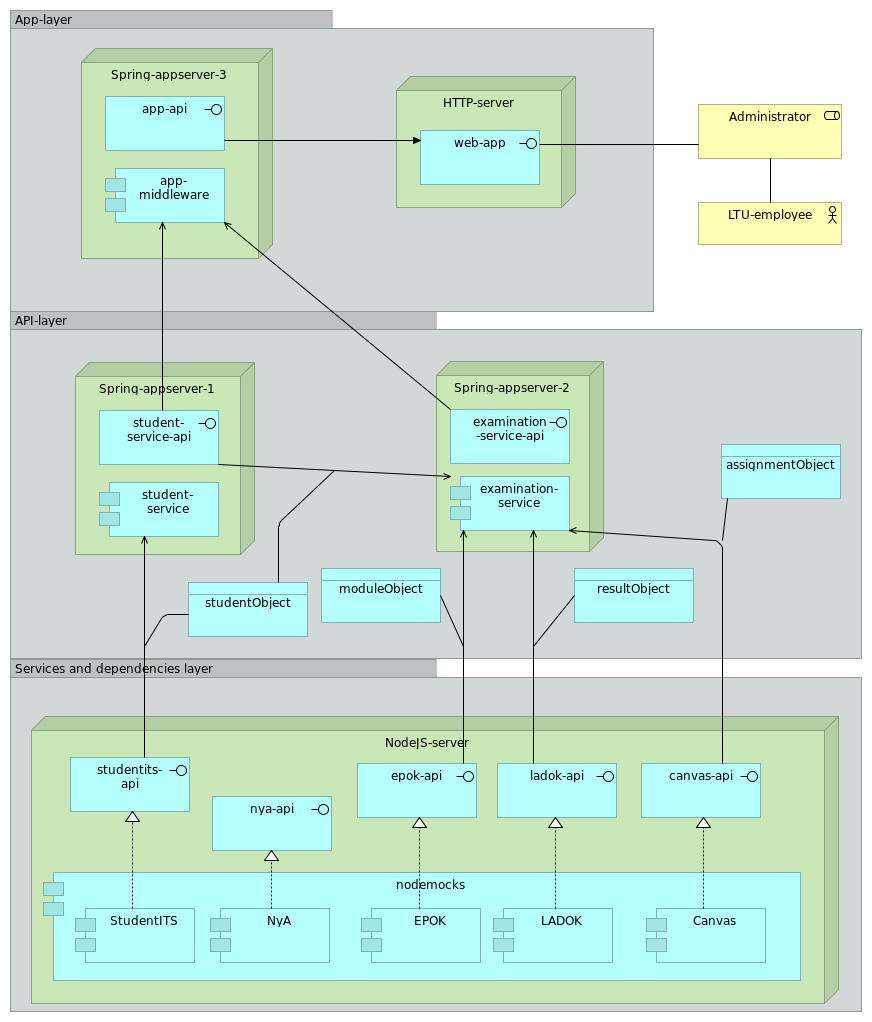
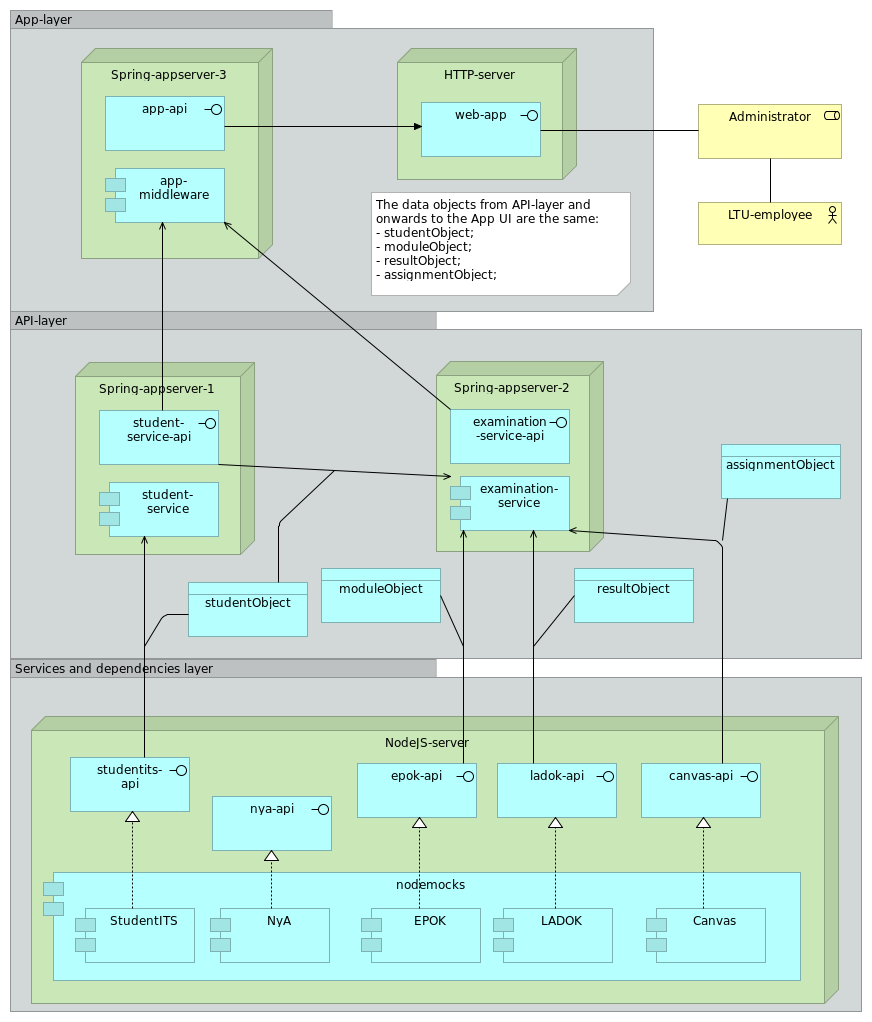
Small note to overview Arch model

Changed region(s): [[0.4025, 0.0303, 0.7431, 0.3033]]

diff --git a/docs/id-82908d6c2a3047ff9637ec8682247159/objects/id-894f5253f9684acfbfed39a0a87da02b.html b/docs/id-82908d6c2a3047ff9637ec8682247159/objects/id-894f5253f9684acfbfed39a0a87da02b.html
@@ -1,0 +1,72 @@
+<!DOCTYPE HTML PUBLIC "-//W3C//DTD HTML 4.01 Transitional//EN" "http://www.w3.org/TR/html4/loose.dtd">
+<html class="frame" lang="en">
+<head>
+	<meta http-equiv="Content-Type" content="text/html;charset=utf-8">
+	<title></title>
+
+	<!-- JQUERY (use 1.x branch to be compatible with IE 6/7/8) -->
+	<script type="text/javascript" src="../../lib/jquery/js/jquery-1.11.2.min.js"></script>
+	<!-- BOOTSTRAP -->
+	<link type="text/css" rel="stylesheet" href="../../lib/bootstrap/css/bootstrap-3.3.2.min.css">
+	<link type="text/css" rel="stylesheet" href="../../lib/bootstrap/css/bootstrap-theme-3.3.2.min.css">
+	<script type="text/javascript" src="../../lib/bootstrap/js/bootstrap-3.3.2.min.js"></script>
+	<!-- REPORT SPECIFIC -->
+	<link type="text/css" rel="stylesheet" href="../../css/model.css">
+	<link type="text/css" rel="stylesheet" href="../../css/i18n.css">
+	<script type="text/javascript" src="../../js/frame.js"></script>
+	<script type="text/javascript" src="../../js/imageMapResizer.min.js"></script>
+</head>
+
+<body>
+	<div class="panel panel-default root-panel">
+
+		<div class="panel-heading root-panel-heading">
+            <!-- Name -->
+               <b class="i18n-elementtype-DiagramModelNote"></b>
+            <!-- If a View with Viewpoint -->
+			   (<span class="i18n-elementtype-DiagramModelNote"></span>)
+			   <a class="glyphicon glyphicon-info-sign" id="hint-DiagramModelNote" target="hint"></a>
+		</div>
+
+		<div class="panel-body root-panel-body">
+		    <!-- If this is a digram model (has children and no bounds) show the image -->
+
+			<div role="tabpanel">
+				<!-- Nav tabs -->
+				<ul class="nav nav-tabs" role="tablist">
+                    <!-- Purpose / Documentation / Content -->
+                       <li role="presentation" class="active"><a href="#documentation" aria-controls="documentation" role="tab" data-toggle="tab" class="i18n-content"></a></li>
+
+                    <!-- Properties -->
+                    <li role="presentation"><a href="#properties" aria-controls="properties" role="tab" data-toggle="tab" class="i18n-properties"></a></li>
+
+				</ul>
+
+				<!-- Tab panes -->
+				<div class="tab-content">
+					<div role="tabpanel" class="tab-pane active" id="documentation">
+						<div class="convertlinks documentation" style="white-space:pre-wrap">The data objects from API-layer and onwards to the App UI are the same:
+- studentObject;
+- moduleObject;
+- resultObject;
+- assignmentObject;</div>
+					</div>
+					<div role="tabpanel" class="tab-pane" id="properties">
+						<table class="table table-striped table-hover table-condensed">
+							<thead>
+								<tr>
+									<th class="i18n-key"></th>
+									<th class="i18n-value"></th>
+								</tr>
+							</thead>
+							<tbody>
+							</tbody>
+						</table>
+					</div>
+			  </div>
+			</div>
+		</div>
+	</div>
+	<script type="text/javascript">imageMapResize();</script>
+</body>
+</html>

diff --git a/docs/id-82908d6c2a3047ff9637ec8682247159/views/id-59081cb21c454f17b161a9ab89fe4d3b.html b/docs/id-82908d6c2a3047ff9637ec8682247159/views/id-59081cb21c454f17b161a9ab89fe4d3b.html
@@ -50,9 +50,10 @@
 				  				<area shape="rect" coords="75,362,255,555" href="../elements/id-674401958631498488615eccf9f309b8.html"  target="element">
 
 				          <area shape="rect" coords="10,311,862,659" href="../objects/id-8f51a92db7a04a2dbea15b724ea5a14c.html" target="element" >
-				  						<area shape="rect" coords="420,130,540,185" href="../elements/id-c12548c6e03d400aa62b618021e0e5fe.html"  target="element">
+				  		        <area shape="rect" coords="371,192,631,296" href="../objects/id-894f5253f9684acfbfed39a0a87da02b.html" target="element" >
+				  						<area shape="rect" coords="421,102,541,157" href="../elements/id-c12548c6e03d400aa62b618021e0e5fe.html"  target="element">
 
-				  				<area shape="rect" coords="396,76,576,208" href="../elements/id-0395c31c3ae440f68785adedb87cac30.html"  target="element">
+				  				<area shape="rect" coords="397,48,577,180" href="../elements/id-0395c31c3ae440f68785adedb87cac30.html"  target="element">
 				  						<area shape="rect" coords="105,168,225,223" href="../elements/id-a403c7a5cbfc499e9c99fe4a4f6085c4.html"  target="element">
 				  						<area shape="rect" coords="105,96,225,151" href="../elements/id-095b277f36874cd0bb287227e50aa501.html"  target="element">
 
@@ -218,6 +219,11 @@
 															</tr>
 
 													
+											        <tr>
+											           <td> <a href="../objects/id-894f5253f9684acfbfed39a0a87da02b.html" target="element">  </a> </td>
+											           <td> <a href="../objects/id-894f5253f9684acfbfed39a0a87da02b.html" target="element" class="i18n-elementtype-DiagramModelNote"> </a> </td>
+											        </tr>
+
 											
 									        <tr>
 									           <td> <a href="../objects/id-8f51a92db7a04a2dbea15b724ea5a14c.html" target="element"> API-layer </a> </td>
@@ -474,6 +480,7 @@
 																					</tr>
 
 													
+													<!-- DEBUG: Skipping element from class com.archimatetool.model.impl.DiagramModelNote -->
 											
 											<!-- DEBUG: Skipping element from class com.archimatetool.model.impl.DiagramModelGroup -->
 																			<tr>

diff --git a/docs/id-82908d6c2a3047ff9637ec8682247159/objects/id-c049f5f9e67d4b128b0169a65aaa2c53.html b/docs/id-82908d6c2a3047ff9637ec8682247159/objects/id-c049f5f9e67d4b128b0169a65aaa2c53.html
@@ -99,6 +99,11 @@
 													</tr>
 
 											
+									        <tr>
+									           <td> <a href="../objects/id-894f5253f9684acfbfed39a0a87da02b.html" target="element">  </a> </td>
+									           <td> <a href="../objects/id-894f5253f9684acfbfed39a0a87da02b.html" target="element" class="i18n-elementtype-DiagramModelNote"> </a> </td>
+									        </tr>
+
 
 								</tbody>
 							</table>
@@ -150,6 +155,7 @@
 																			</tr>
 
 											
+											<!-- DEBUG: Skipping element from class com.archimatetool.model.impl.DiagramModelNote -->
 
 								</tbody>
 							</table>
